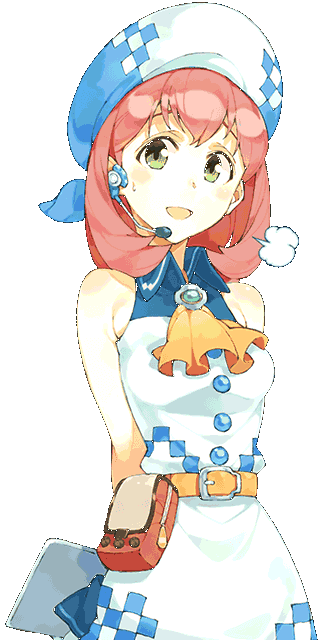
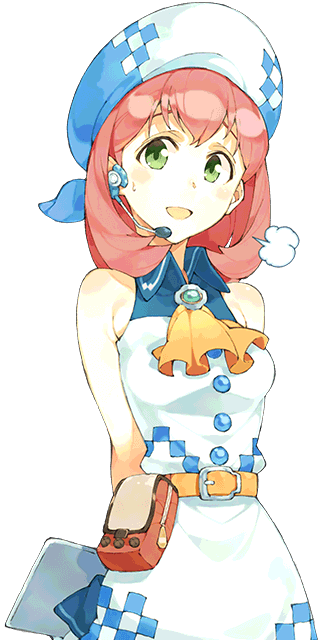
reverted hina, increased easter egg chances

diff --git a/index.js b/index.js
@@ -314,7 +314,7 @@ function initProfiles() {
                     portrait.src = "img/mon/0/" + mon + ".png";
                     if (mon == "birdramon") {
                         var r = Math.random();
-                        if (r < 0.0001) {
+                        if (r < 0.001) {
                             portrait.src = "img/mon/birdramon.png";
                         }
                     }

diff --git a/preprocessing/reducify.m b/preprocessing/reducify.m
@@ -1,4 +1,4 @@
-% for preprocessing/img/mon and preprocessing/img/hina
+% for preprocessing/img/mon/*
 % change subdir and rerun as necessary
 
 imdir = '/Users/Krazete/Desktop/takatomon/preprocessing/img/';
@@ -24,7 +24,7 @@ for n = 1:N
         end
         rename = [reimdir, subdir, '/', file.name];
         imwrite(reim, remap, rename);
-        % add transparency for subdirs 'hina/*' and files 'mon/birdramon.png'
+        % add transparency for 'mon/birdramon.png'
 %         imwrite(reim, remap, rename, 'Transparency', 0);
     end
 end
